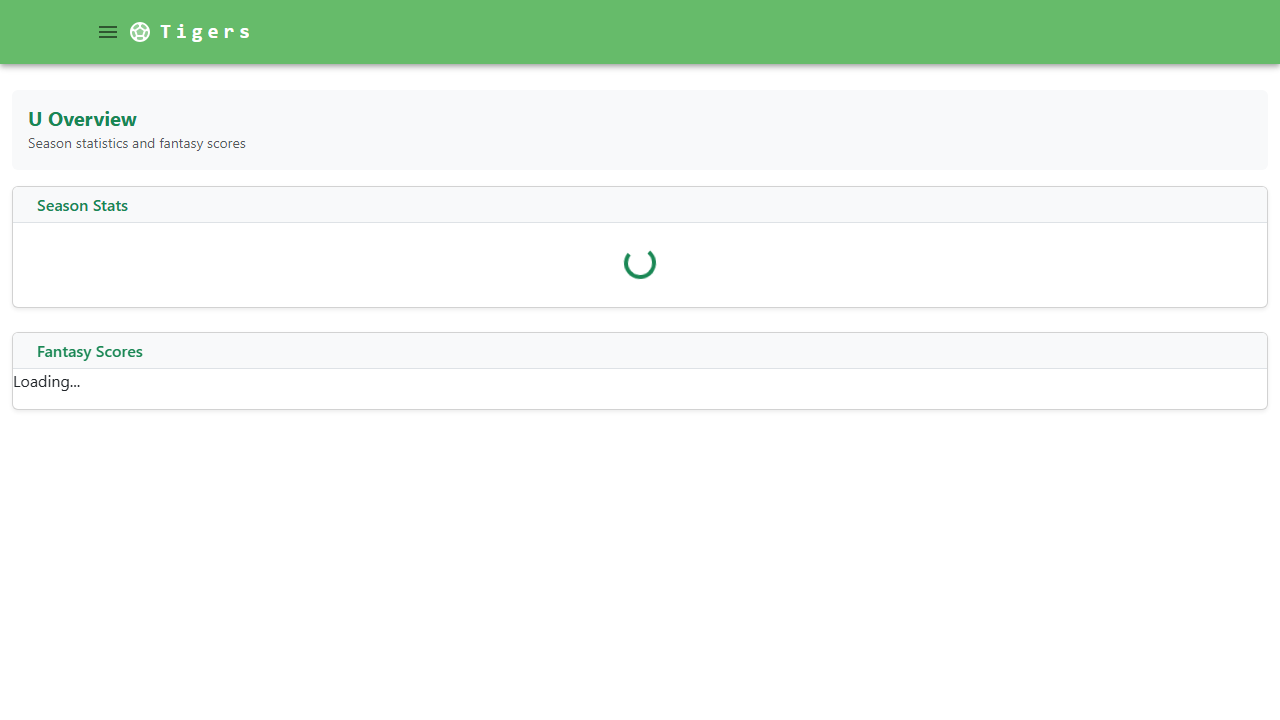
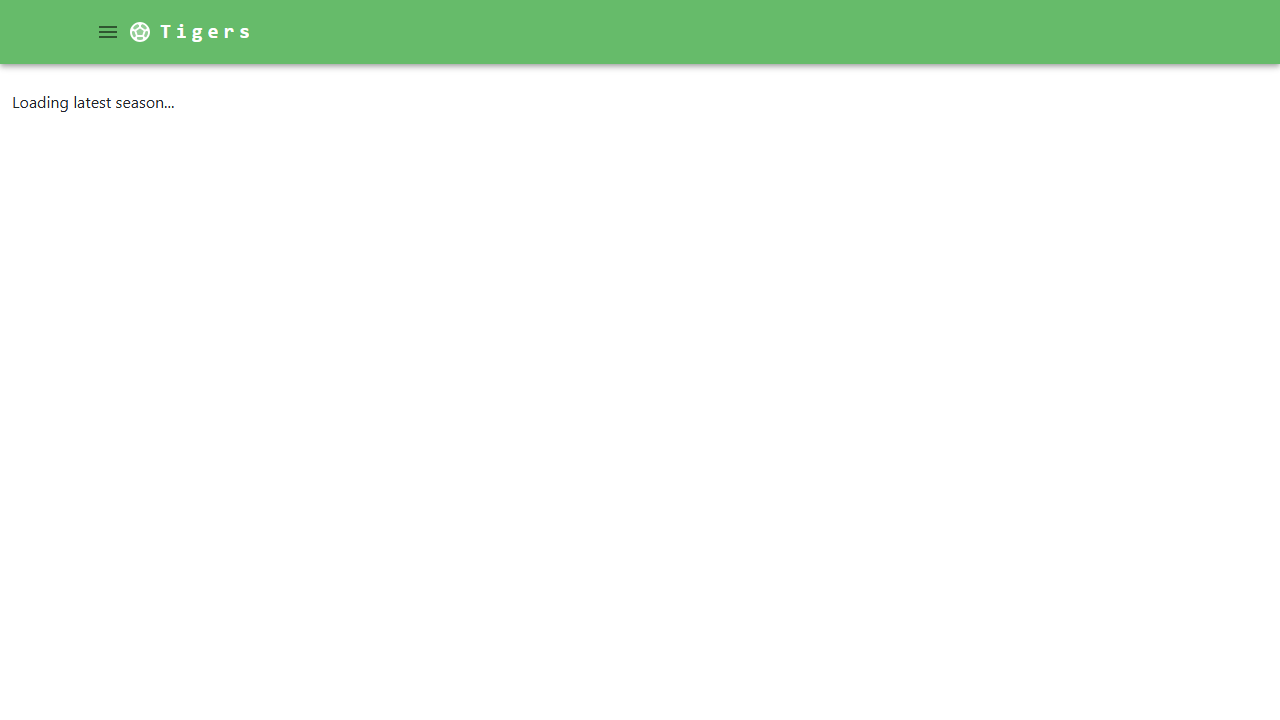
Updated tests

diff --git a/test-results/app-loading-NPTFC-App-Loading-should-have-correct-page-title-chromium/error-context.md b/test-results/app-loading-NPTFC-App-Loading-should-have-correct-page-title-chromium/error-context.md
@@ -9,15 +9,5 @@
       - img [ref=e13] [cursor=pointer]
       - link "Tigers" [ref=e16] [cursor=pointer]:
         - /url: /AgeGroups
-  - generic [ref=e18]:
-    - generic [ref=e20]:
-      - heading "U Overview" [level=5] [ref=e21]
-      - generic [ref=e22]: Season statistics and fantasy scores
-    - generic [ref=e23]:
-      - heading "Season Stats" [level=6] [ref=e25]: Season Stats
-      - status [ref=e28]:
-        - generic [ref=e29]: Loading...
-    - generic [ref=e30]:
-      - heading "Fantasy Scores" [level=6] [ref=e32]: Fantasy Scores
-      - paragraph [ref=e35]: Loading...
+  - paragraph [ref=e20]: Loading latest season...
 ```